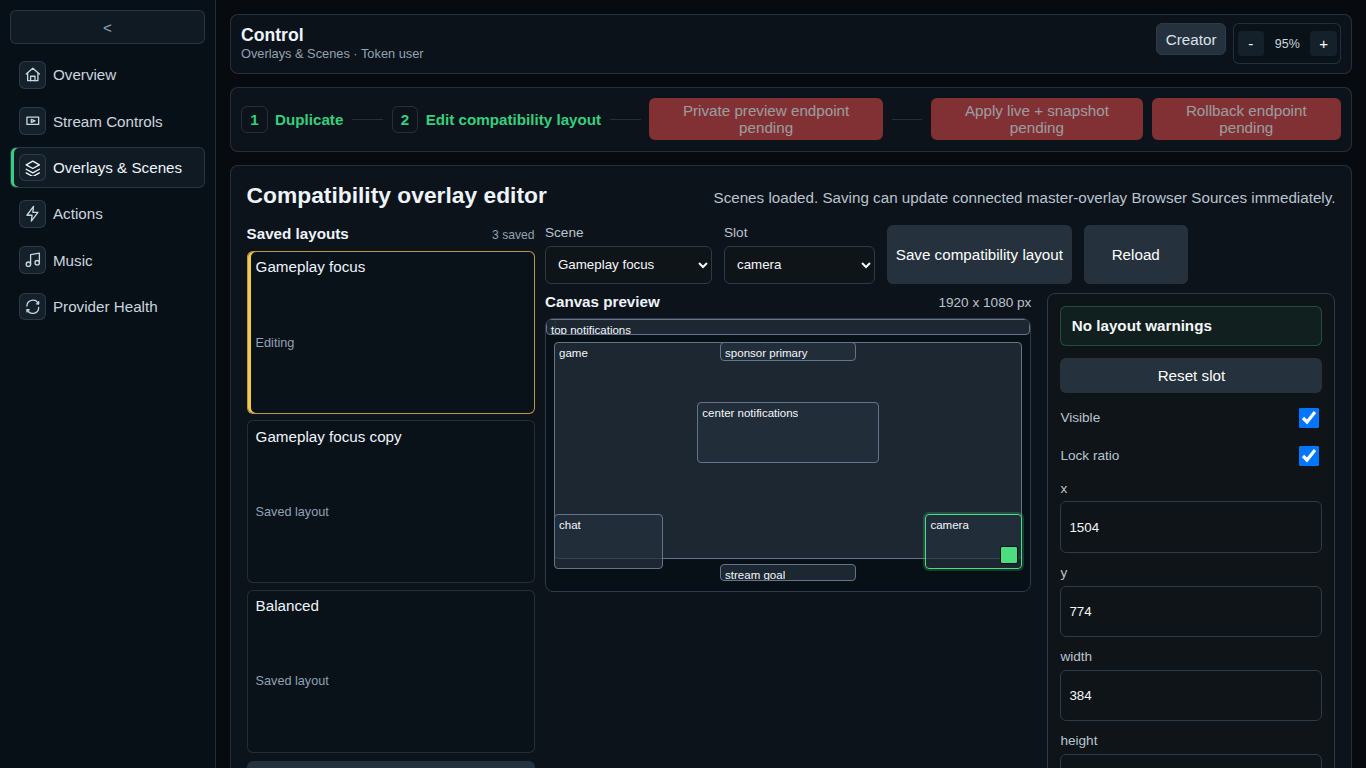
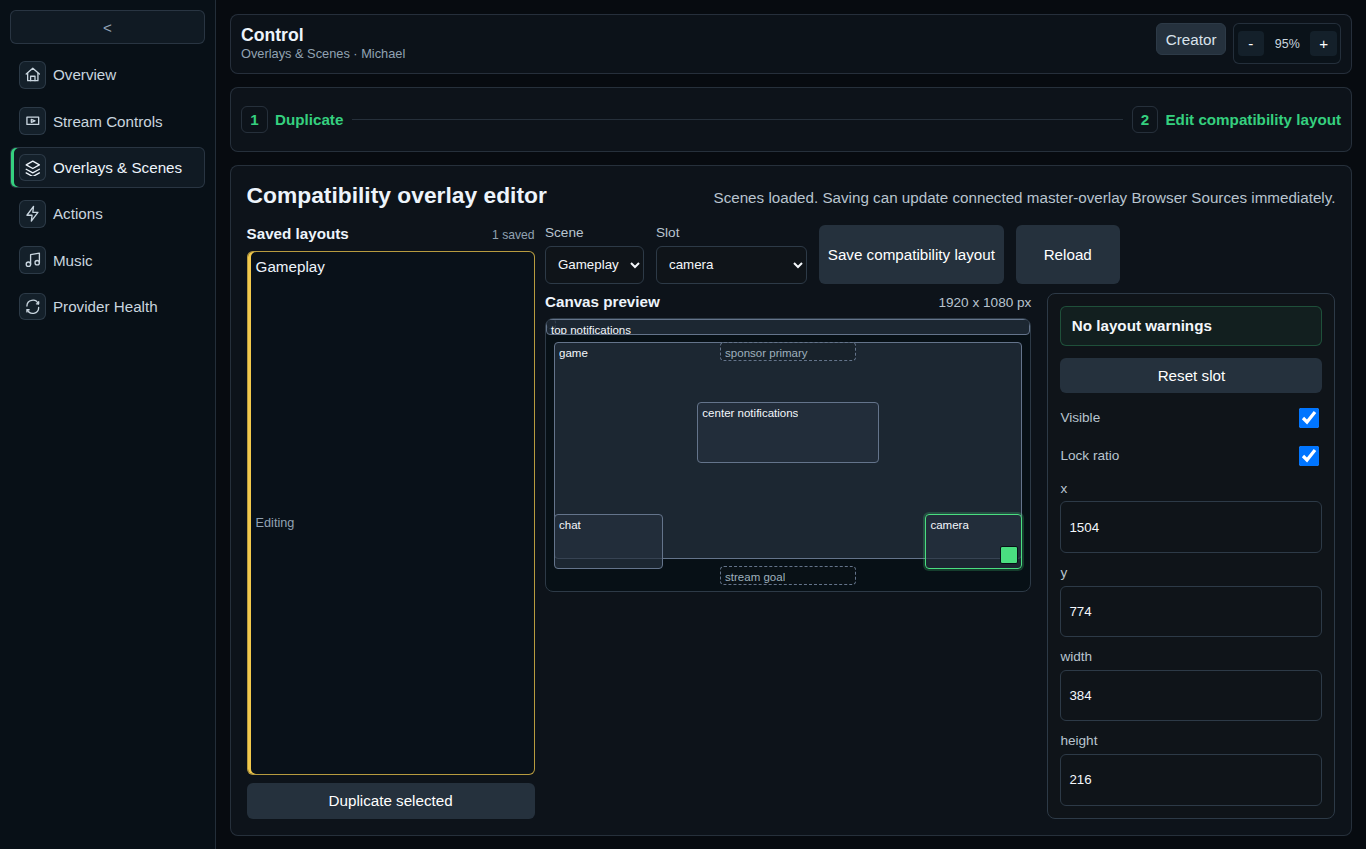
fix: remove fake overlay workflow controls

diff --git a/apps/control-panel/src/styles.css b/apps/control-panel/src/styles.css
@@ -2253,12 +2253,6 @@ a {
   height: 1px;
 }
 
-.overlay-workflow-strip button,
-.scene-safety-action-bar button {
-  min-height: 2rem;
-  padding: 0.25rem 0.55rem;
-}
-
 .scene-editor-shell {
   display: grid;
   gap: 0.65rem;
@@ -2274,7 +2268,7 @@ a {
 .scene-layout-list {
   display: grid;
   gap: 0.55rem;
-  grid-template-rows: auto minmax(0, 1fr) auto auto;
+  grid-template-rows: auto minmax(0, 1fr) auto;
 }
 
 .scene-layout-list-heading {
@@ -2325,22 +2319,6 @@ a {
   gap: 0.55rem;
 }
 
-.scene-safety-action-bar {
-  align-items: center;
-  background: #091119;
-  border: 1px solid var(--ops-border);
-  border-radius: 8px;
-  display: flex;
-  gap: 0.55rem;
-  justify-content: flex-end;
-  padding: 0.45rem;
-}
-
-.scene-safety-action-bar span {
-  color: var(--ops-muted);
-  margin-right: auto;
-}
-
 @media (hover: none) {
   .streamer-chat-list li .streamer-chat-actions {
     opacity: 0;
@@ -2378,6 +2356,15 @@ a {
 
   .moderation-context-drawer {
     max-height: 18rem;
+  }
+
+  .scene-editor-shell,
+  .scene-designer-grid {
+    grid-template-columns: minmax(0, 1fr);
+  }
+
+  .slot-editor {
+    position: static;
   }
 }
 
@@ -2438,8 +2425,7 @@ a {
     grid-template-columns: 1fr;
   }
 
-  .overlay-workflow-strip,
-  .scene-safety-action-bar {
+  .overlay-workflow-strip {
     align-items: stretch;
     display: grid;
   }

diff --git a/apps/control-panel/src/main.tsx b/apps/control-panel/src/main.tsx
@@ -260,11 +260,6 @@ const App = (): React.ReactNode => {
             <div className="overlay-workflow-step active"><span>1</span> Duplicate</div>
             <div className="overlay-workflow-line" />
             <div className="overlay-workflow-step current"><span>2</span> Edit compatibility layout</div>
-            <div className="overlay-workflow-line" />
-            <button type="button" disabled>Private preview endpoint pending</button>
-            <div className="overlay-workflow-line" />
-            <button type="button" disabled>Apply live + snapshot pending</button>
-            <button type="button" disabled>Rollback endpoint pending</button>
           </section>
           <SceneDesigner apiBaseUrl={apiBaseUrl} />
         </>
@@ -304,7 +299,7 @@ const App = (): React.ReactNode => {
             <article>
               <span>Scene work</span>
               <strong>Overlays & Scenes</strong>
-              <p>Duplicate a layout before editing. Compatibility saves can update the master overlay; the future explicit apply workflow remains disabled until its safety endpoints exist.</p>
+              <p>Duplicate a layout before editing. Compatibility saves can update the connected master overlay immediately.</p>
             </article>
             <article>
               <span>Live controls</span>

diff --git a/apps/control-panel/src/scene-designer/SceneDesigner.tsx b/apps/control-panel/src/scene-designer/SceneDesigner.tsx
@@ -443,7 +443,6 @@ export const SceneDesigner = ({ apiBaseUrl }: SceneDesignerProps): React.ReactNo
             <button type="button" className="status-action duplicate-layout-action" onClick={() => void duplicateSelectedScene()}>
               Duplicate selected
             </button>
-            <p>The existing save endpoint maintains the master-overlay compatibility path. Private preview, explicit live apply, snapshot, and rollback controls stay disabled until their backend endpoints exist.</p>
           </aside>
           <div className="scene-editor-main">
             <SceneDesignerToolbar
@@ -480,12 +479,6 @@ export const SceneDesigner = ({ apiBaseUrl }: SceneDesignerProps): React.ReactNo
                   updateSelectedSlotAspectLock={updateSelectedSlotAspectLock}
                 />
               ) : null}
-            </div>
-            <div className="scene-safety-action-bar">
-              <span>Compatibility saves may update connected master overlays immediately.</span>
-              <button type="button" disabled>Private preview pending</button>
-              <button type="button" disabled>Apply draft live pending</button>
-              <button type="button" disabled>Rollback pending</button>
             </div>
           </div>
         </div>

diff --git a/reports/production-capability-ledger.md b/reports/production-capability-ledger.md
@@ -33,7 +33,7 @@ mean a capability is deployed or proven in a real user path.
 | Page Creator and route ownership | done | done | done | in-progress | blocked | blocked | Persistence, owner editor, preview/publish gate, reserved routes, and exact-path rendering exist | Verify live draft isolation and publish/unpublish behavior before using it for production pages |
 | Backup, export, and recovery evidence | done | in-progress | in-progress | in-progress | blocked | blocked | Key-data export, backup health with sanitized failure categories, runbook, and a dry-run record exist | Approve retention/encryption/owner policy, install the production workflow, and prove a disposable restore drill |
 | Money and accounting | done | in-progress | in-progress | in-progress | blocked | blocked | Private ledger, dated rules, imports, receipts, reports, and posting workflow exist; public money behavior remains gated | Verify bookkeeping against real provider statements before opening any public payment path |
-| Production route and operator-surface hygiene | done | done | in-progress | in-progress | blocked | blocked | The production web build no longer registers the dev test console, Gemini lab, or retired Live Helper page; old public links to `/dev` and `/gemini-lab` fail closed; static profile demonstrations and some implementation-detail copy remain | Deploy and verify the retired routes and stale public-link behavior after reachability returns, then continue the narrower product-content audit |
+| Production route and operator-surface hygiene | done | done | in-progress | in-progress | blocked | blocked | The production web build no longer registers the dev test console, Gemini lab, or retired Live Helper page; old public links to `/dev` and `/gemini-lab` fail closed; the Control PWA no longer exposes disabled future overlay actions; static profile demonstrations and some implementation-detail copy remain | Deploy and verify the retired routes and cleaned operator surfaces after reachability returns, then continue the narrower product-content audit |
 
 ## Ranked Queue
 

diff --git a/reports/current-work.md b/reports/current-work.md
@@ -61,6 +61,7 @@
 - Moderation now opens on Chat and uses permission-derived internal navigation for active moderation, applied rules, approvals, user context, and audit. Control now separates live operations into Overview, Stream Controls, Overlays & Scenes, Actions, Music, and Provider Health. Notifications has a dedicated install manifest and compact mobile layout.
 - Preserved provider chat, attention/read-aloud, per-PWA audio output, moderation actions and audit, token/session gates, music controls, and existing overlay behavior.
 - Corrected misleading scene-editor copy during coordinator review. The existing save endpoint can update connected master-overlay Browser Sources, so the UI now calls it a compatibility layout save and requires an explicit warning confirmation. Private preview, apply, snapshot, and rollback remain unavailable rather than being presented as working controls.
+- Removed the duplicated disabled preview/apply/snapshot/rollback controls and backend-status copy from the production overlay workspace. The remaining workflow shows only Duplicate and Edit, keeps working Save/Reload controls and the live-update warning, and stacks the editor cleanly at 960px instead of clipping controls beyond the viewport.
 - `pnpm check:review` passed after integration. A final focused pass after the copy correction also passed the control-panel typecheck, web build, architecture check, and `git diff --check`.
 - Local synthetic visual and interaction evidence is in `reports/visual-qa/production-pwa-redesign/README.md`. Production deployment and installed-window verification remain blocked by the unreachable server and Cloudflare `530` responses.
 - Added a bounded access retry foundation for Control, Chat, and Moderation. Temporary token/session API failures retry after 2, 5, 10, 20, then at most 30 seconds; returning online or foreground triggers an immediate silent check; a visible Try again action remains available. Stale overlapping checks cannot replace newer access state.

diff --git a/reports/visual-qa/production-pwa-redesign/README.md b/reports/visual-qa/production-pwa-redesign/README.md
@@ -18,6 +18,7 @@ This is local synthetic verification of the first production implementation of t
 - `moderation-mobile-768x1024.png`
 - `control-overview-1366x768.png`
 - `control-overlay-1366x768.png`
+- `control-overlay-960x1080.png`
 - `notifications-390x844.png`
 
 ## Findings
@@ -26,7 +27,7 @@ This is local synthetic verification of the first production implementation of t
 - Desktop chat actions remain hidden until hover or keyboard focus. Focus reveals Hide, Ban, and Options. Options opens the complete allowed action list.
 - Touch emulation exposes one Options control after selecting a row, then reveals Warn, Hide, Ban, note, provider, and allow actions.
 - Moderation uses its own permission-derived internal navigation and a selected-message context panel without adding cross-PWA navigation.
-- Control separates Overview, Stream Controls, Overlays & Scenes, Actions, Music, and Provider Health. The compatibility scene editor now warns that saving can update connected master-overlay Browser Sources. Future private preview, apply, snapshot, and rollback controls remain visibly unavailable.
+- Control separates Overview, Stream Controls, Overlays & Scenes, Actions, Music, and Provider Health. The compatibility scene editor warns that saving can update connected master-overlay Browser Sources, shows only working controls, and stacks cleanly at half-screen width without horizontal overflow.
 - Notifications has its own compact dark mobile layout and install manifest.
 
 The implementation follows the approved density and hierarchy. Chat retains one extra compact status and attention row because those working production controls need to remain reachable.

diff --git a/TODO.md b/TODO.md
@@ -450,6 +450,8 @@ Gate note: moderation needs a domain-first rules/audit design before UI buttons 
 - [x] Add standalone Action Panel route.
 - [x] Add PWA manifest and first shared stream-tools icon set.
 - [x] Make control panel installable.
+- [x] Remove unavailable overlay workflow controls from the production Control PWA.
+  - 2026-08-27 removed the duplicated disabled preview/apply/snapshot/rollback controls and endpoint-status copy from Overlays & Scenes. Duplicate, compatibility save, reload, and the immediate-live-update warning remain. The editor now stacks before its controls clip at half-screen width.
 - [x] Make streamer chat installable.
   - 2026-06-29 added a dedicated `/chat` mode on `control-dev` with its own `chat-manifest.webmanifest`, PWA identity, and focused full-window streamer chat layout. It reuses the existing control-panel token gate and streamer-chat API/live feed, and it does not add provider writes, moderation actions, service-worker private caching, auth changes, migrations, or production behavior.
   - 2026-06-29 follow-up narrowed the normal control-panel PWA manifest to `/control` so the existing control app no longer claims the whole `control-dev` origin and blocks `/chat` from installing as a separate app. Existing old-scope installs may need to be removed once on Ubuntu/Android before reinstalling the separate control/chat PWAs.
